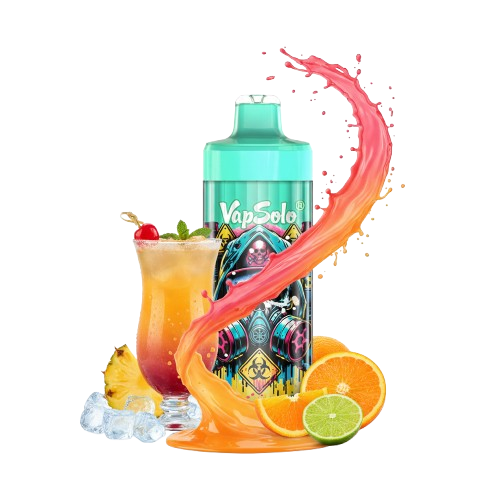
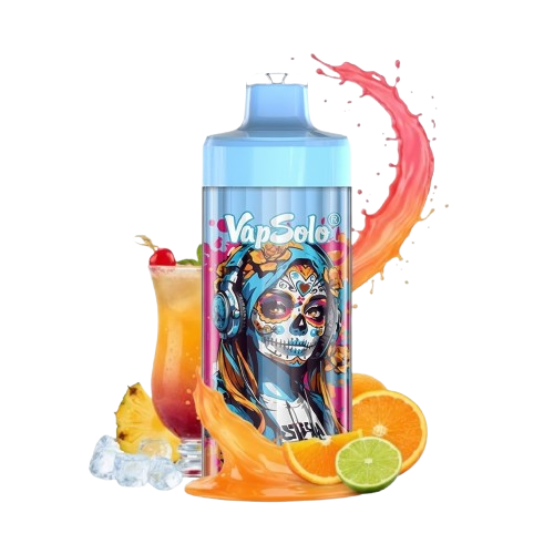
Swap sotb image and fix initial seed data fallback

diff --git a/src/app/_temp-init.ts b/src/app/_temp-init.ts
@@ -2,105 +2,105 @@ import { Inventory } from "./models/item.model";
 
 export default {
     items: [
-    {
-        taste: ['Strawberry', 'Banana'],
-        imgSrc: 'img/strawberry-banana.png',
-        stock: 8,
-    },
-    {
-        taste: ['Mango'],
-        imgSrc: 'img/mango.png',
-        stock: 0,
-    },
-    {
-        taste: ['Watermelon ice'],
-        imgSrc: 'img/watermelon-ice.png',
-        stock: 0,
-    },
-    {
-        taste: ['Lemon', 'Lime'],
-        imgSrc: 'img/lemon-lime.png',
-        stock: 6,
-    },
-    {
-        taste: ['Black ice', 'Dragon fruit', 'Strawberry'],
-        imgSrc: 'img/black-ice.png',
-        stock: 4,
-    },
-    {
-        taste: ['Love 66'],
-        imgSrc: 'img/love-66.png',
-        stock: 0,
-    },
-    {
-        taste: ['Cherry', 'Cola'],
-        imgSrc: 'img/cherry-cola.png',
-        stock: 5,
-    },
-    {
-        taste: ['Cherry', 'Lemon'],
-        imgSrc: 'img/cherry-lemon.png',
-        stock: 5,
-    },
-    {
-        taste: ['Peach', 'Berry'],
-        imgSrc: 'img/peach.png',
-        stock: 5,
-    },
-    {
-        taste: ['Peach', 'Mango'],
-        imgSrc: 'img/peach-mango.png',
-        stock: 0,
-    },
-    {
-        taste: ['Sex on the beach'],
-        imgSrc: 'img/sex-on-the-beach.png',
-        stock: 0,
-    },
-    {
-        taste: ['Strawberry', 'Kiwi'],
-        imgSrc: 'img/strawberry-kiwi.png',
-        stock: 0,
-    },
-    {
-        taste: ['Pink lemonade'],
-        imgSrc: 'img/pink-lemonade.png',
-        stock: 0,
-    },
-    {
-        taste: ['Piña colada'],
-        imgSrc: 'img/pina-colada.png',
-        stock: 0,
-    },
-    {
-        taste: ['Blueberry sour', 'Raspberry'],
-        imgSrc: 'img/blueberry.png',
-        stock: 10,
-    },
-    {
-        taste: ['Grape burst'],
-        imgSrc: 'img/grape.png',
-        stock: 0,
-    },
-    {
-        taste: ['Fizzy cherry'],
-        imgSrc: 'img/cherry.png',
-        stock: 0,
-    },
-    {
-        taste: ['Strawberry', 'Watermelon'],
-        imgSrc: 'img/strawberry-watermelon.png',
-        stock: 8,
-    },
-    {
-        taste: ['Mix berries'],
-        imgSrc: 'img/berries.png',
-        stock: 0,
-    },
-    {
-        taste: ['Kiwi', 'Passion fruit', 'Guayaba'],
-        imgSrc: 'img/passion-fruit.png',
-        stock: 0,
-    },
+        {
+            taste: ['Strawberry', 'Banana'],
+            imgSrc: 'img/strawberry-banana.png',
+            stock: 8,
+        },
+        {
+            taste: ['Mango'],
+            imgSrc: 'img/mango.png',
+            stock: 1,
+        },
+        {
+            taste: ['Watermelon ice'],
+            imgSrc: 'img/watermelon-ice.png',
+            stock: 1,
+        },
+        {
+            taste: ['Lemon', 'Lime'],
+            imgSrc: 'img/lemon-lime.png',
+            stock: 6,
+        },
+        {
+            taste: ['Black ice', 'Dragon fruit', 'Strawberry'],
+            imgSrc: 'img/black-ice.png',
+            stock: 4,
+        },
+        {
+            taste: ['Love 66'],
+            imgSrc: 'img/love-66.png',
+            stock: 1,
+        },
+        {
+            taste: ['Cherry', 'Cola'],
+            imgSrc: 'img/cherry-cola.png',
+            stock: 5,
+        },
+        {
+            taste: ['Cherry', 'Lemon'],
+            imgSrc: 'img/cherry-lemon.png',
+            stock: 5,
+        },
+        {
+            taste: ['Peach', 'Berry'],
+            imgSrc: 'img/peach.png',
+            stock: 5,
+        },
+        {
+            taste: ['Peach', 'Mango'],
+            imgSrc: 'img/peach-mango.png',
+            stock: 1,
+        },
+        {
+            taste: ['Sex on the beach'],
+            imgSrc: 'img/sex-on-the-beach.png',
+            stock: 1,
+        },
+        {
+            taste: ['Strawberry', 'Kiwi'],
+            imgSrc: 'img/strawberry-kiwi.png',
+            stock: 1,
+        },
+        {
+            taste: ['Pink lemonade'],
+            imgSrc: 'img/pink-lemonade.png',
+            stock: 1,
+        },
+        {
+            taste: ['Piña colada'],
+            imgSrc: 'img/pina-colada.png',
+            stock: 1,
+        },
+        {
+            taste: ['Blueberry sour', 'Raspberry'],
+            imgSrc: 'img/blueberry.png',
+            stock: 10,
+        },
+        {
+            taste: ['Grape burst'],
+            imgSrc: 'img/grape.png',
+            stock: 1,
+        },
+        {
+            taste: ['Fizzy cherry'],
+            imgSrc: 'img/cherry.png',
+            stock: 1,
+        },
+        {
+            taste: ['Strawberry', 'Watermelon'],
+            imgSrc: 'img/strawberry-watermelon.png',
+            stock: 8,
+        },
+        {
+            taste: ['Mix berries'],
+            imgSrc: 'img/berries.png',
+            stock: 1,
+        },
+        {
+            taste: ['Kiwi', 'Passion fruit', 'Guayaba'],
+            imgSrc: 'img/passion-fruit.png',
+            stock: 1,
+        }
     ],
 } as Inventory;

diff --git a/src/app/app.ts b/src/app/app.ts
@@ -6,6 +6,7 @@ import { InventoryComponent } from './components/inventory.component';
 import { InventoryService } from './services/inventory.service';
 import { Inventory } from './models/item.model';
 import { FooterComponent } from './components/footer.component';
+import INITIAL_SEED from './_temp-init';
 
 @Component({
   selector: 'app-root',
@@ -25,6 +26,7 @@ export class App {
   inventory$ = this.refresh$$.pipe(
     startWith(void 0),
     switchMap(() => this.service.getInventory()),
+    map((result) => result ?? INITIAL_SEED),
     map(({ items }) => [...items].sort(({ stock: a }, { stock: b }) => b - a )),
     map(items => ({ items })),
   );

diff --git a/README.md b/README.md
@@ -1,0 +1,18 @@
+# Invapentory
+
+Online stock inventory for vapes.
+
+## Setup
+
+1. Install dependencies
+
+```npm install```
+```npm install -g netlify-cli```
+
+2. Link repository to Netlify project
+
+```netlify link```
+
+3. Serve the application
+
+```netlify dev```
